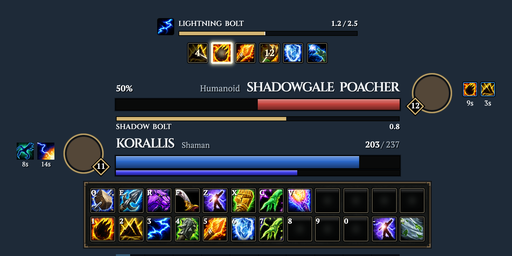
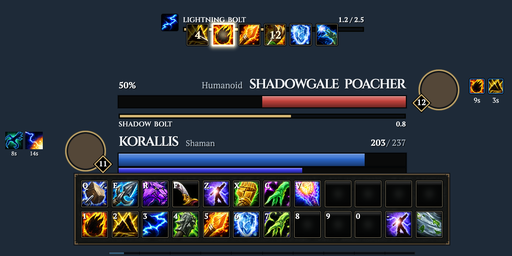
fix(options): recrop the HUD style pictures from the rebased renders
Staging changed the Orbs art (#346) and the Auto size (#347); both pictures are recropped from fresh hud_reference renders of the rebased head.

diff --git a/Tools/media/hud_pictures.py b/Tools/media/hud_pictures.py
@@ -30,8 +30,8 @@ PICTURE = (512, 256)
 # Left, top, right, bottom in screen units of a 1920 by 1080 render: the cast bar, the cooldown row, the target and
 # player frames and the two-row tray for Frames; the two orbs, the forged tray and the cast bar for Orbs.
 CROPS = {
-    "HudStyleFrames": (598, 692.5, 1318, 1052.5),
-    "HudStyleOrbs": (499, 618, 1423, 1080),
+    "HudStyleFrames": (540, 640, 1360, 1050),
+    "HudStyleOrbs": (501, 621, 1419, 1080),
 }
 
 
